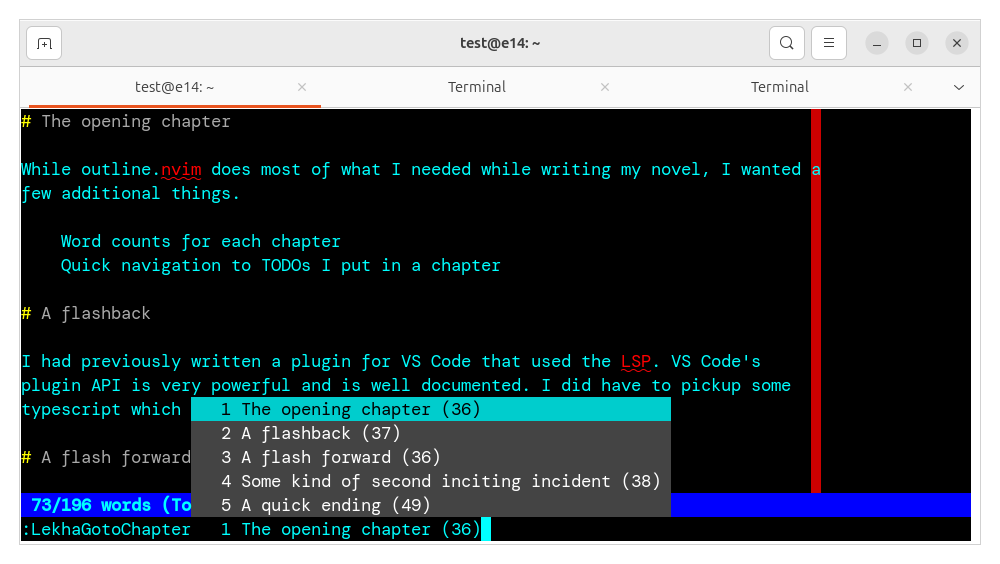
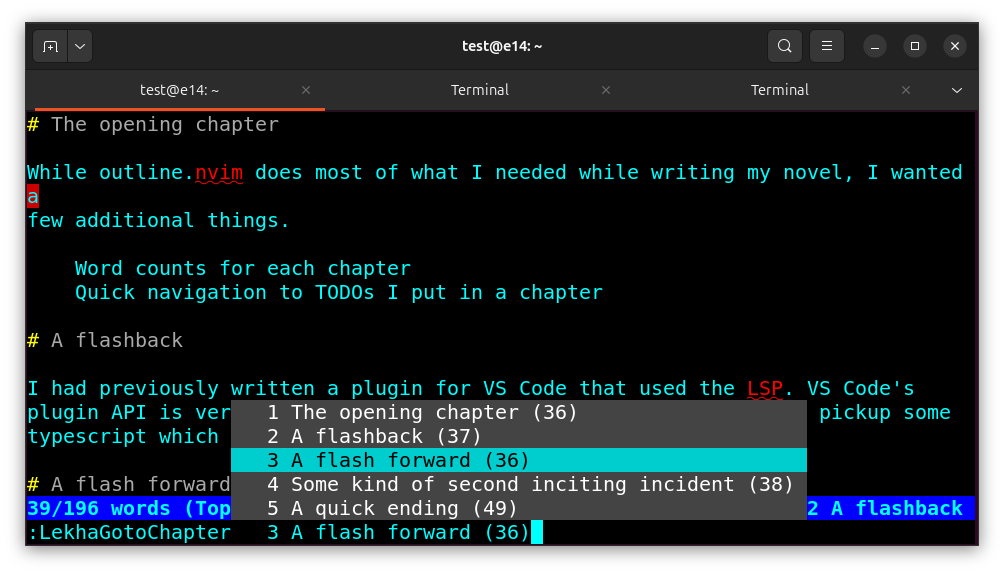
Update screenshot and description.

diff --git a/README.md b/README.md
@@ -6,7 +6,7 @@ For my novel writing needs,
 [outline.nvim](https://github.com/hedyhli/outline.nvim) was both way more
 powerful than I needed and not powerful enough. 
 
-This plugin is minimalistic (in appearance and function) but is perfect for my
+`Lekha` is minimalistic (in appearance and function) but is perfect for my
 writing needs:
 
 - There is no split pane: It uses NeoVim's auto complete feature to display the
@@ -22,8 +22,10 @@ writing needs:
 runtime path. Then add something like this to your `markdown.vim`:
 
 ```
+-- Register Lekha commands
 lua require("lekha").enable()
-nmap <Tab> :LekhaGotoChapter
+-- Register a convenient shortcut key 
+nmap <Tab> :LekhaGotoChapter<Space>
 ```
 
 Now by hitting Tab twice in normal mode you can access the go to chapter command.
@@ -36,15 +38,18 @@ the chapter the cursor is in.
 
 # Notes
 
-1. I had little trouble writing the NeoVim plugin in Lua though I had never
+1. I had little trouble writing this NeoVim plugin in Lua though I had never
    written a NeoVim plugin before and didn't know Lua. The NeoVim documentation
-   is adequate though I had to supplement with reddit and stackoverflow searches
-   for a few things which were either hard to find keywords for in the API docs,
-   or which were not actually that well explained.
-1. Vim (and NeoVim's) efficiency impresses me. I have a 140,000 word manuscript
+   is adequate though I had to supplement with web searches
+   for a few things.
+1. Vim/NeoVim's editing efficiency and Lua's speed impresses me. I have a 140,000 word manuscript
    and the dumb algorithm I implemented here doesn't take any perceptible time
    to run.
 
+## Lua/NeoVim API Concepts
+1. Ordered arrays
+1. Calling NeoVim commands from Lua
+1. Creating autocommands and commands
 
 # References
 
